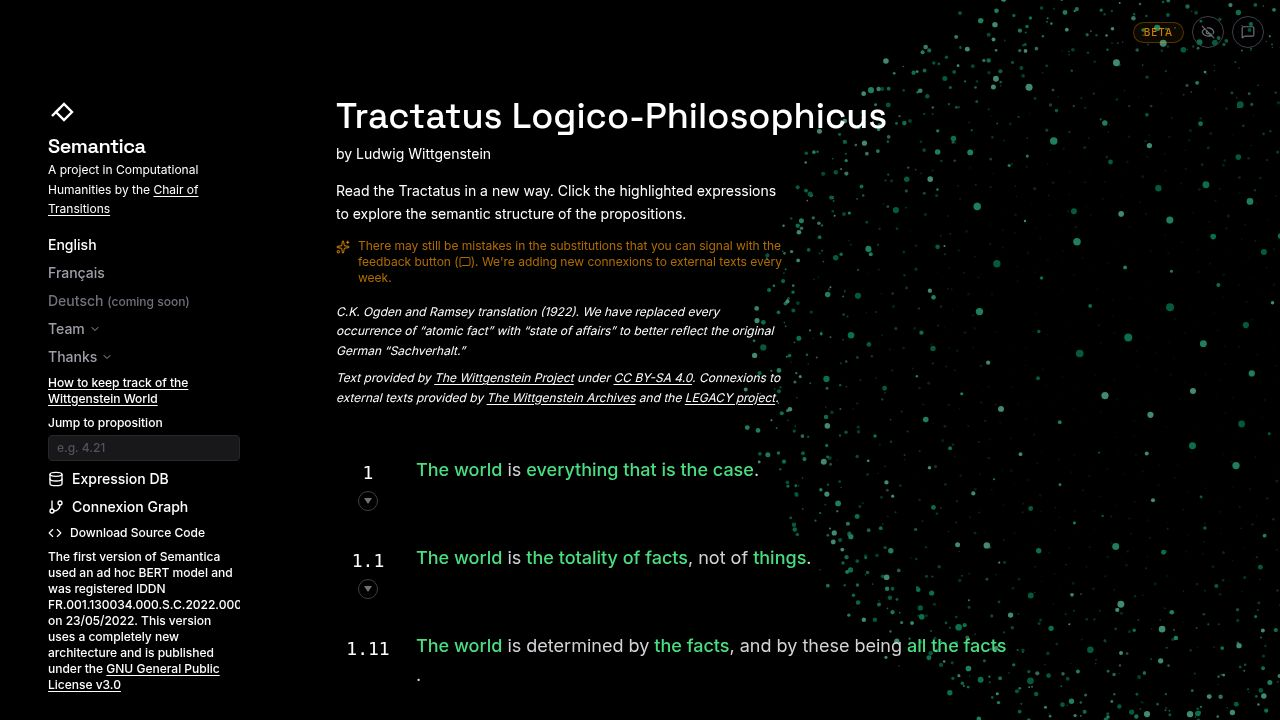
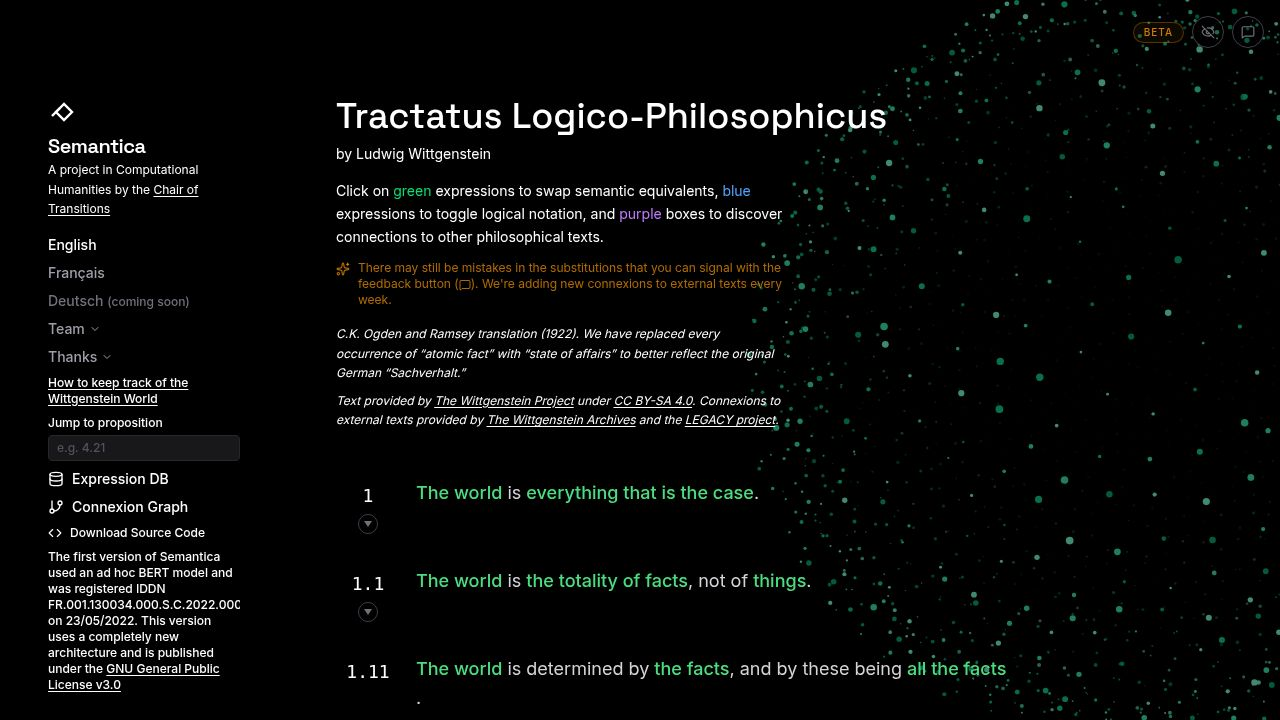
Explain how to interact with semantic highlighting and connections
Update the home page text to explain the functionality of green, blue, and purple highlights for semantic exploration and external text connections.

Replit-Commit-Author: Agent
Replit-Commit-Session-Id: 3d3c5ee8-30ca-449f-a36a-2a26b9467d3a
Replit-Commit-Checkpoint-Type: full_checkpoint
Replit-Commit-Event-Id: c05cc967-17b7-4ec2-914b-9fc850ebb950
Replit-Commit-Screenshot-Url: https://storage.googleapis.com/screenshot-production-us-central1/2c497065-9d4a-4f02-8f2e-021a778ebca1/3d3c5ee8-30ca-449f-a36a-2a26b9467d3a/ckGH4rF
Replit-Helium-Checkpoint-Created: true

diff --git a/client/src/pages/Home.tsx b/client/src/pages/Home.tsx
@@ -460,7 +460,7 @@ export default function Home() {
               {language === 'en' ? 'by Ludwig Wittgenstein' : 'par Ludwig Wittgenstein'}
             </p>
             <p className="text-white max-w-md text-sm leading-relaxed">
-              {language === 'en' ? 'Read the Tractatus in a new way. Click the highlighted expressions to explore the semantic structure of the propositions.' : 'Lisez le Tractatus d\u2019une nouvelle mani\u00e8re. Cliquez sur les expressions surlign\u00e9es pour explorer la structure s\u00e9mantique des propositions.'}
+              {language === 'en' ? <>Click on <span className="text-green-400">green</span> expressions to swap semantic equivalents, <span className="text-blue-400">blue</span> expressions to toggle logical notation, and <span className="text-purple-400">purple</span> boxes to discover connections to other philosophical texts.</> : <>Cliquez sur les expressions en <span className="text-green-400">vert</span> pour permuter des équivalents sémantiques, sur les expressions en <span className="text-blue-400">bleu</span> pour basculer en notation logique, et sur les encadrés <span className="text-purple-400">violets</span> pour découvrir des connexions à d'autres textes philosophiques.</>}
             </p>
             <div className="mt-3 flex items-start gap-2 text-amber-500/70 text-xs max-w-md">
               <Sparkles className="w-3.5 h-3.5 mt-0.5 shrink-0" />
